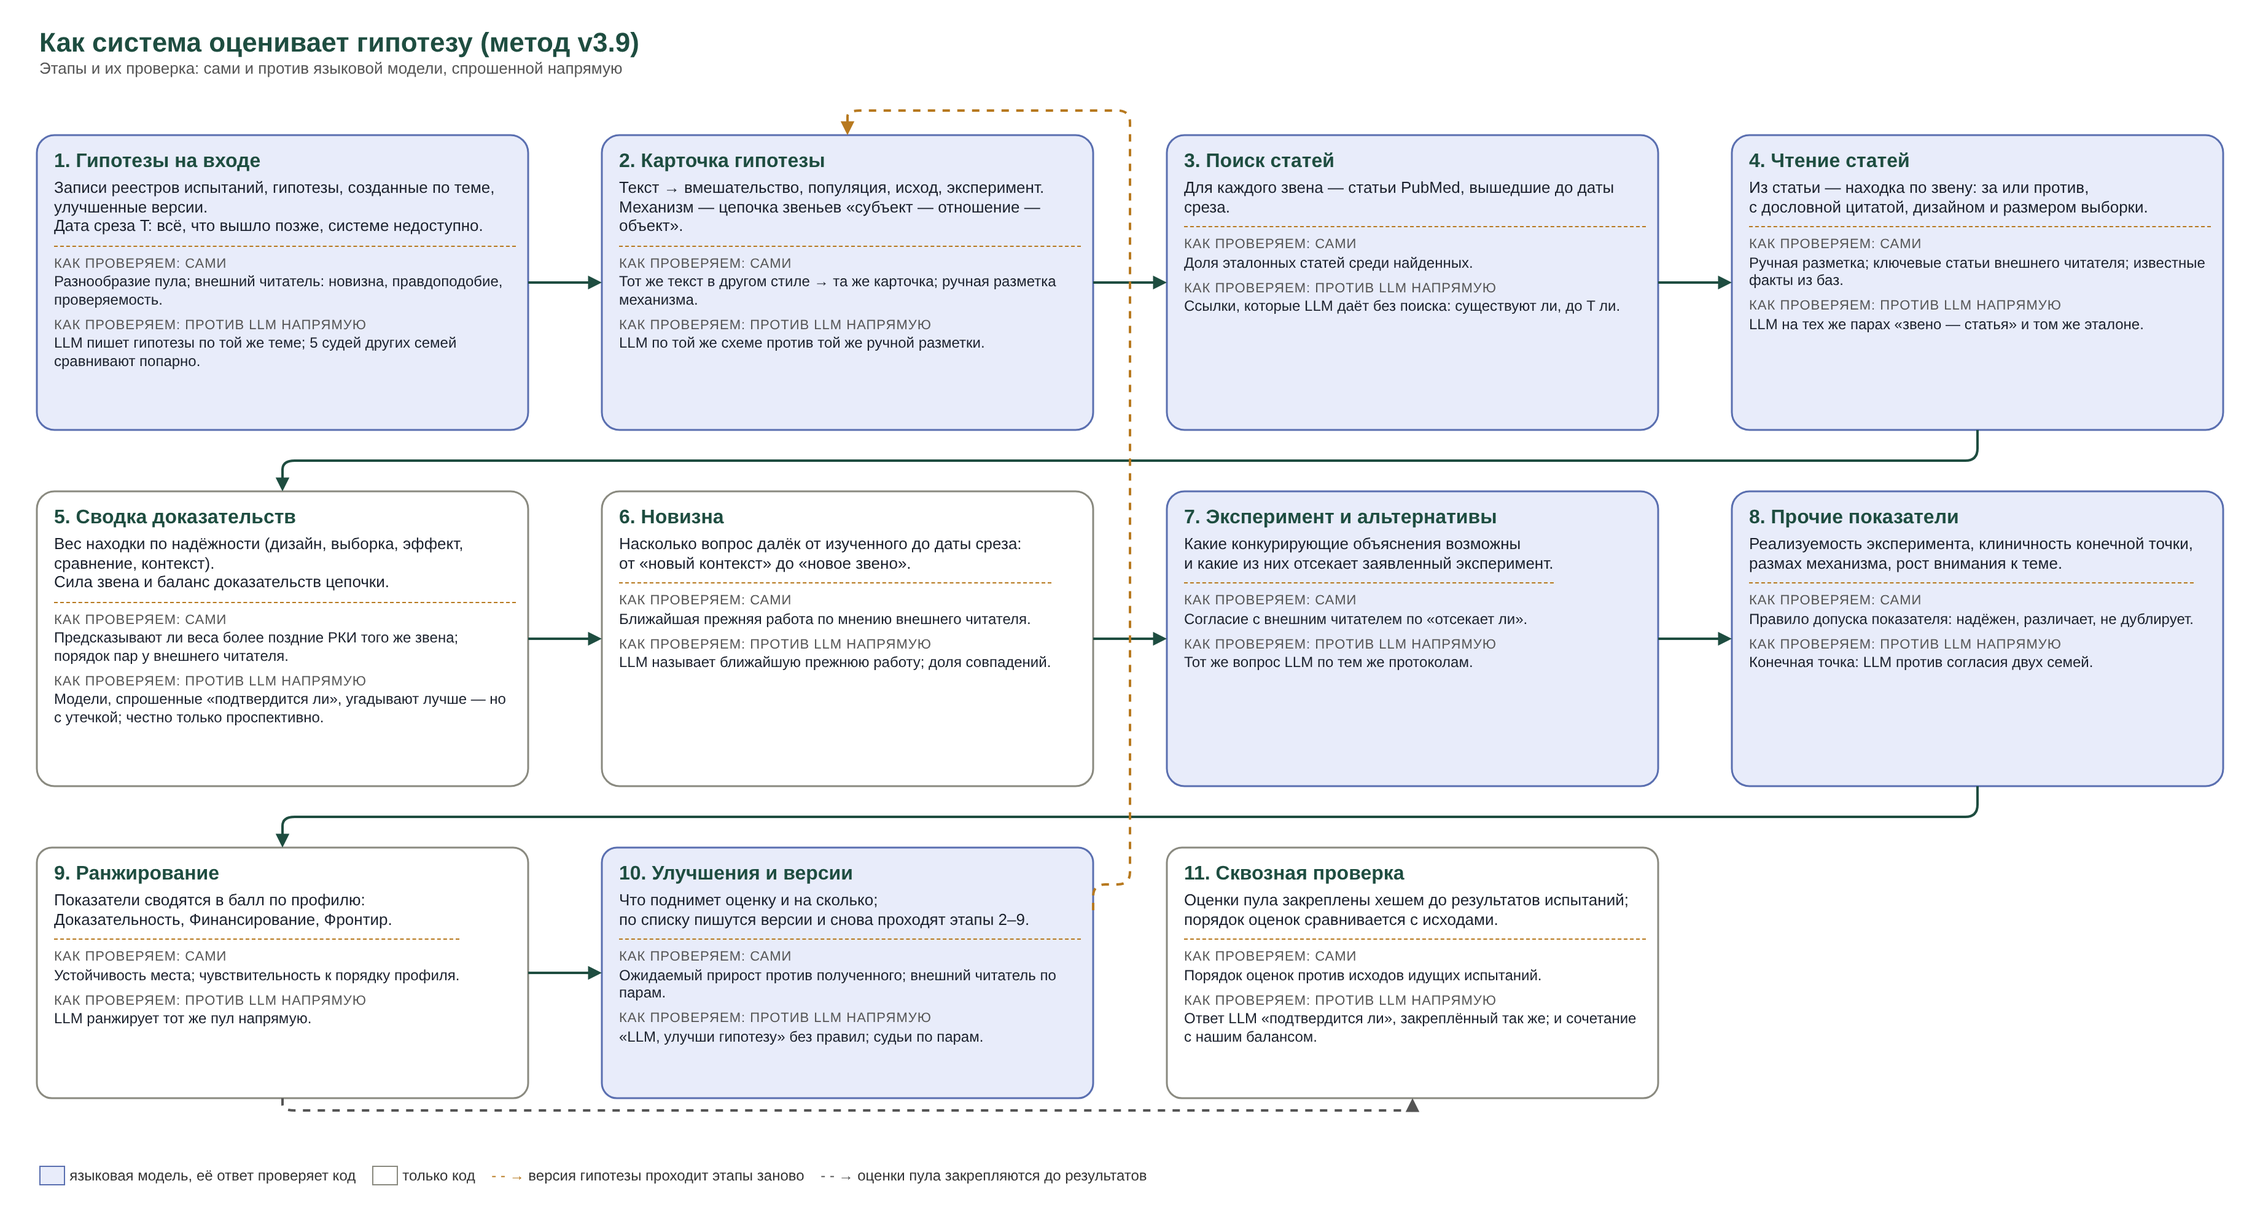
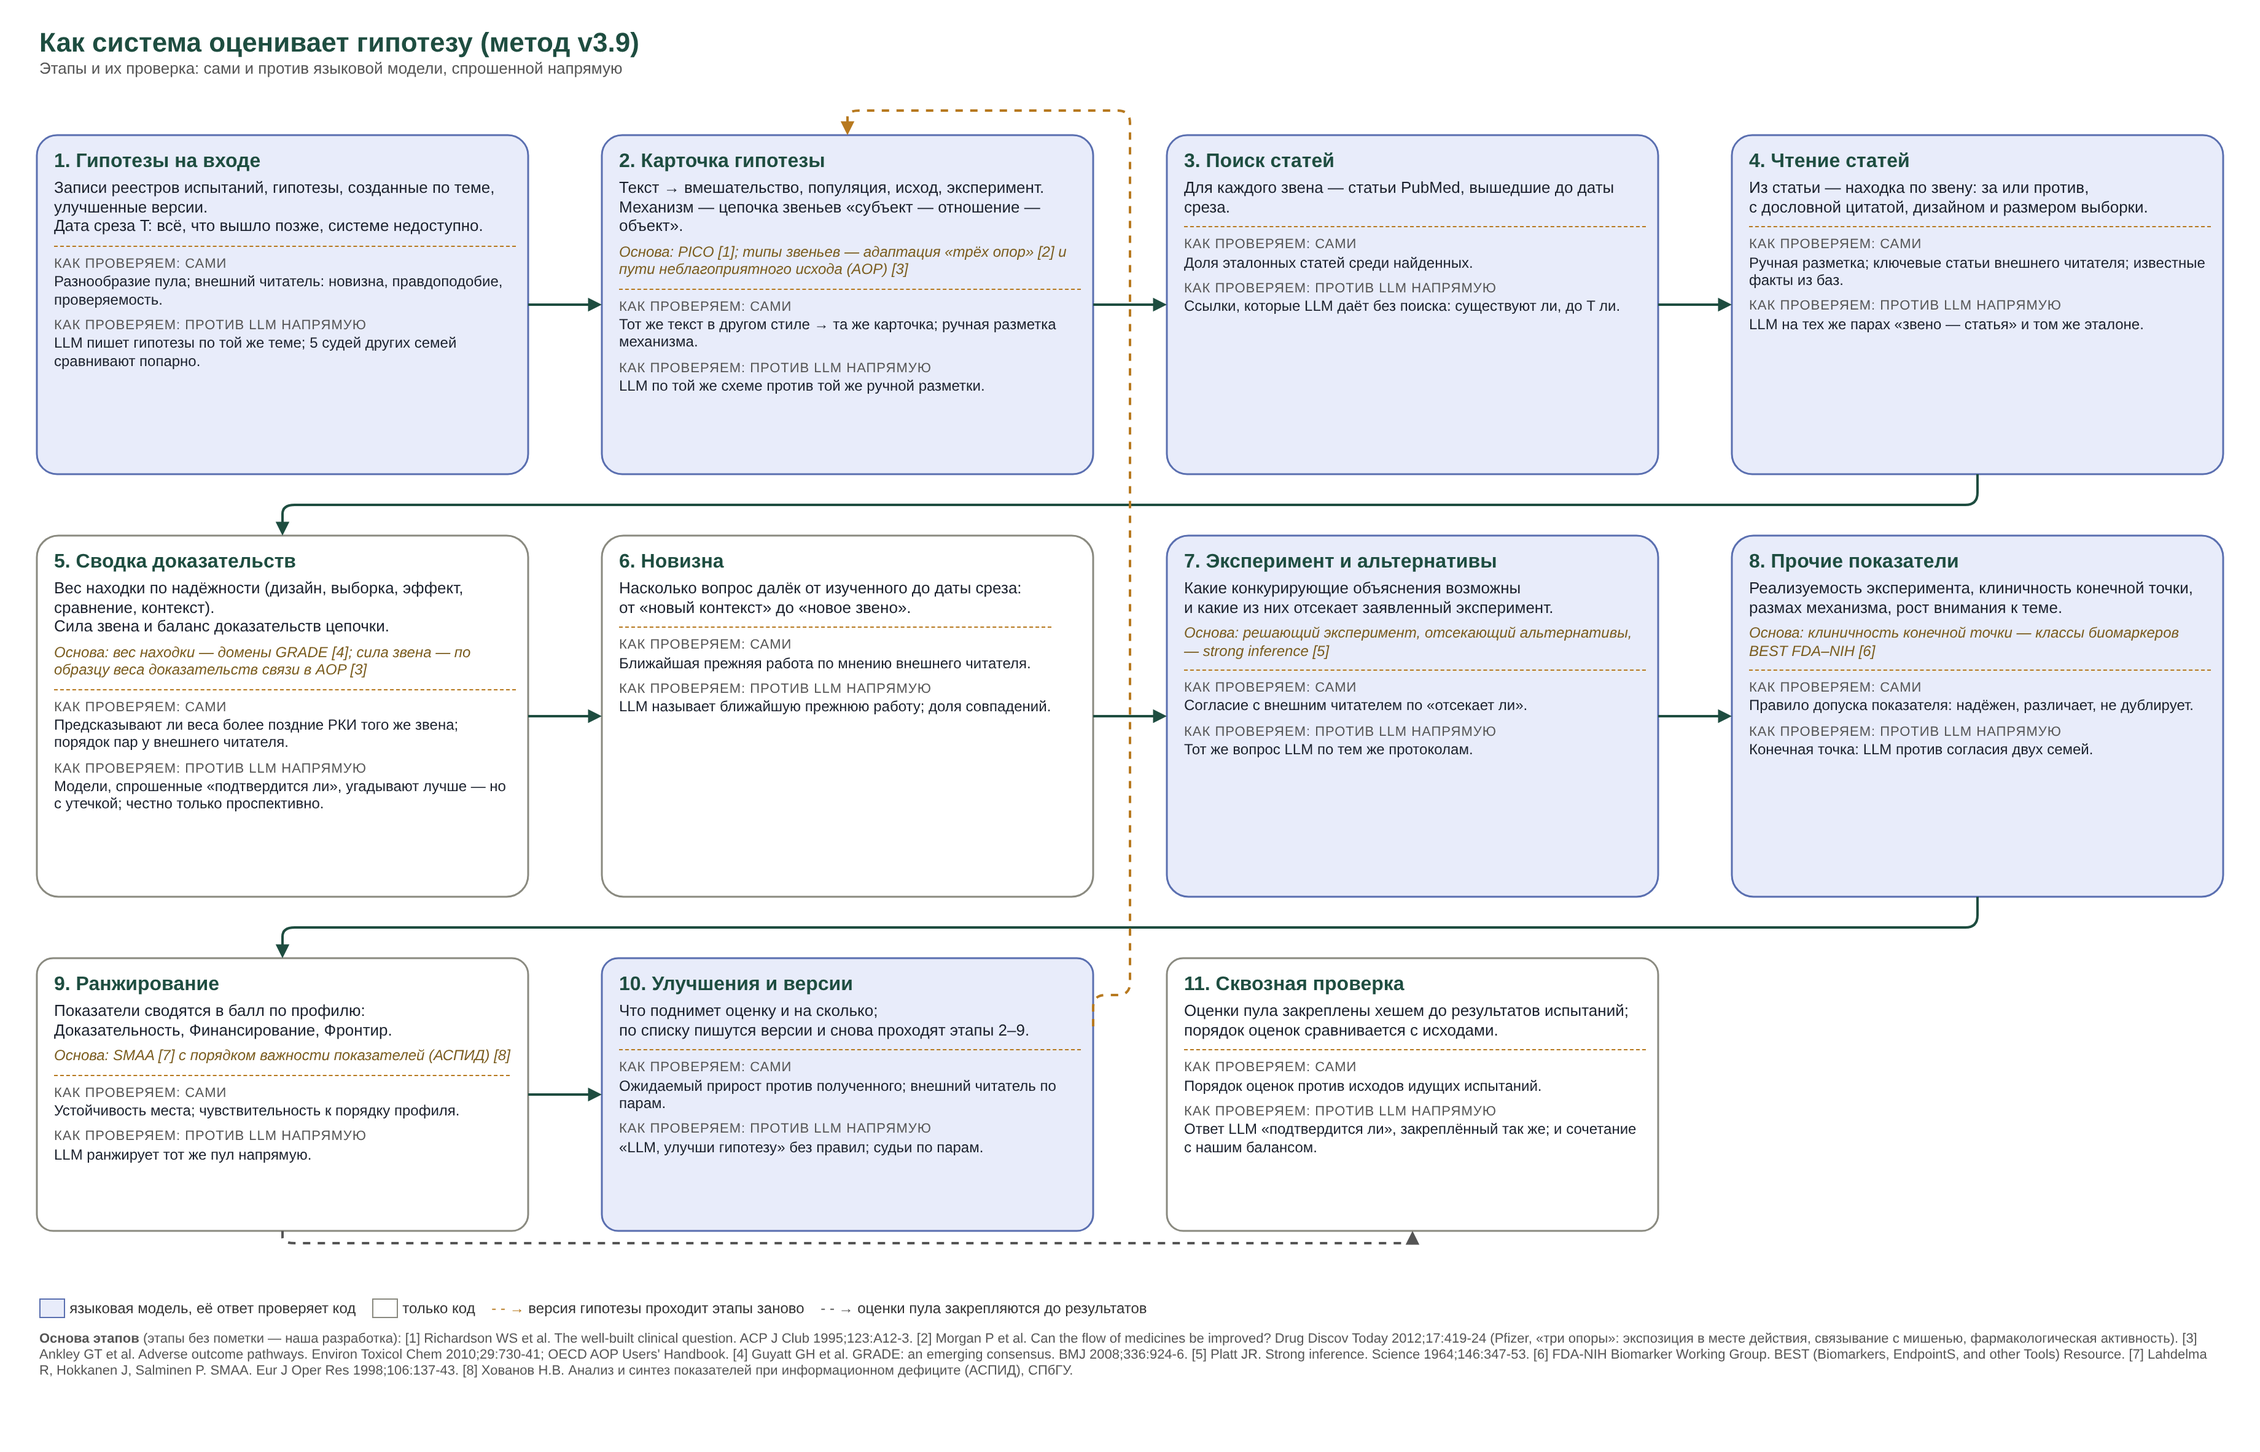
Schemes: each stage names the accepted scheme it adapts (PICO, Pfizer three pillars, AOP, GRADE, strong inference, BEST, SMAA, ASPID) with checked references; manual section 3: where the link types come from
Claude-Session: https://claude.ai/code/session_015QaY8wcM8f6FoFe6WxnTtU

diff --git a/docs/system/build_flow.py b/docs/system/build_flow.py
@@ -23,7 +23,7 @@ STAGES = [
          own=["Разнообразие пула; внешний читатель: новизна, правдоподобие, проверяемость."],
          base_llm=["LLM пишет гипотезы по той же теме; 5 судей других семей сравнивают попарно."],
          why=["У гипотез из реестров есть дата и будущий исход: отбор проверяется без утечки."]),
-    dict(name="2. Карточка гипотезы", kind="llm",
+    dict(name="2. Карточка гипотезы", basis="PICO [1]; типы звеньев — адаптация «трёх опор» [2] и пути неблагоприятного исхода (AOP) [3]", kind="llm",
          base=["Текст → вмешательство, популяция, исход, эксперимент.",
                "Механизм — цепочка звеньев «субъект — отношение — объект»."],
          llm=["Разбирает текст по фиксированной схеме и закрытому словарю отношений."],
@@ -46,7 +46,7 @@ STAGES = [
          own=["Ручная разметка; ключевые статьи внешнего читателя; известные факты из баз."],
          base_llm=["LLM на тех же парах «звено — статья» и том же эталоне."],
          why=["Цитата делает каждую оценку проверяемой и не даёт модели подставить память."]),
-    dict(name="5. Сводка доказательств", kind="code",
+    dict(name="5. Сводка доказательств", basis="вес находки — домены GRADE [4]; сила звена — по образцу веса доказательств связи в AOP [3]", kind="code",
          base=["Вес находки по надёжности (дизайн, выборка, эффект, сравнение, контекст).",
                "Сила звена и баланс доказательств цепочки."],
          code=["Вес по доменам GRADE; сила звена из суммы «за» и «против»; баланс — среднее по звеньям с данными."],
@@ -60,7 +60,7 @@ STAGES = [
          own=["Ближайшая прежняя работа по мнению внешнего читателя."],
          base_llm=["LLM называет ближайшую прежнюю работу; доля совпадений."],
          why=["Суждение модели о новизне ненадёжно; отсутствие данных — не новизна."]),
-    dict(name="7. Эксперимент и альтернативы", kind="llm",
+    dict(name="7. Эксперимент и альтернативы", basis="решающий эксперимент, отсекающий альтернативы, — strong inference [5]", kind="llm",
          base=["Какие конкурирующие объяснения возможны",
                "и какие из них отсекает заявленный эксперимент."],
          llm=["Называет альтернативы; по тексту протокола решает, отсекает ли их эксперимент."],
@@ -68,7 +68,7 @@ STAGES = [
          own=["Согласие с внешним читателем по «отсекает ли»."],
          base_llm=["Тот же вопрос LLM по тем же протоколам."],
          why=["Придуманная альтернатива без опоры ничего не добавляет."]),
-    dict(name="8. Прочие показатели", kind="llm",
+    dict(name="8. Прочие показатели", basis="клиничность конечной точки — классы биомаркеров BEST FDA–NIH [6]", kind="llm",
          base=["Реализуемость эксперимента, клиничность конечной точки,",
                "размах механизма, рост внимания к теме."],
          llm=["Относит конечную точку к уровню; две семьи моделей, считается только совпадение."],
@@ -76,7 +76,7 @@ STAGES = [
          own=["Правило допуска показателя: надёжен, различает, не дублирует."],
          base_llm=["Конечная точка: LLM против согласия двух семей."],
          why=["Профилю «Финансирование» нужны цена и готовность."]),
-    dict(name="9. Ранжирование", kind="code",
+    dict(name="9. Ранжирование", basis="SMAA [7] с порядком важности показателей (АСПИД) [8]", kind="code",
          base=["Показатели сводятся в балл по профилю:",
                "Доказательность, Финансирование, Фронтир."],
          code=["Профиль задаёт только порядок важности; АСПИД разыгрывает веса и даёт балл и «в топ-5»."],
@@ -98,6 +98,18 @@ STAGES = [
          own=["Порядок оценок против исходов идущих испытаний."],
          base_llm=["Ответ LLM «подтвердится ли», закреплённый так же; и сочетание с нашим балансом."],
          why=["Единственная проверка без утечки."]),
+]
+
+# checked 2026-11-11 (PubMed and publisher records; ASPID: the book's details to be confirmed in a library catalogue)
+REFS = [
+    "Richardson WS et al. The well-built clinical question. ACP J Club 1995;123:A12-3.",
+    "Morgan P et al. Can the flow of medicines be improved? Drug Discov Today 2012;17:419-24 (Pfizer, «три опоры»: экспозиция в месте действия, связывание с мишенью, фармакологическая активность).",
+    "Ankley GT et al. Adverse outcome pathways. Environ Toxicol Chem 2010;29:730-41; OECD AOP Users' Handbook.",
+    "Guyatt GH et al. GRADE: an emerging consensus. BMJ 2008;336:924-6.",
+    "Platt JR. Strong inference. Science 1964;146:347-53.",
+    "FDA-NIH Biomarker Working Group. BEST (Biomarkers, EndpointS, and other Tools) Resource.",
+    "Lahdelma R, Hokkanen J, Salminen P. SMAA. Eur J Oper Res 1998;106:137-43.",
+    "Хованов Н.В. Анализ и синтез показателей при информационном дефиците (АСПИД), СПбГУ.",
 ]
 
 VARIANTS = {"base": [], "impl": ["impl"], "check": ["check"], "full": ["impl", "check", "why"]}
@@ -135,6 +147,9 @@ def stage_html(s: dict, layers: list[str]) -> tuple[str, int]:
     html = f"<div style='font-size:16px;color:#1E4D40'><b>{escape(s['name'])}</b></div>" \
            f"<div style='margin-top:4px'>{'<br/>'.join(escape(t) for t in s['base'])}</div>"
     n = 2 + sum(nlines(t, BW) for t in s["base"])
+    if s.get("basis"):                     # the accepted scheme a stage adapts (user 2026-11-11: say whose idea we adapt)
+        html += f"<div style='margin-top:6px;font-size:12px;color:#7A5C1E'><i>Основа: {escape(s['basis'])}</i></div>"
+        n += nlines(s["basis"], BW, 12) + 1
     if "impl" in layers:
         if s["kind"] == "llm":
             for t, items in (("LLM", s["llm"]), ("Код", s["code"])):
@@ -195,7 +210,12 @@ def build(layers: list[str]) -> str:
               "<span style='color:#B7791F'>- - →</span> версия гипотезы проходит этапы заново &nbsp;&nbsp; "
               "<span style='color:#555'>- - →</span> оценки пула закрепляются до результатов")
     out.append(cell("legend", legend, X0, y, total_w, 26, "text;html=1;fontSize=12;align=left;fontColor=#333;fillColor=none;strokeColor=none;"))
-    page_h = y + 50
+    y += 30
+    refs = "<b>Основа этапов</b> (этапы без пометки — наша разработка): " + " ".join(f"[{i}] {escape(r)}" for i, r in enumerate(REFS, 1))
+    rh = (nlines(" ".join(REFS), total_w, 11) + 1) * 15 + 10
+    out.append(cell("refs", refs, X0, y, total_w, rh, "text;html=1;whiteSpace=wrap;fontSize=11;align=left;verticalAlign=top;fontColor=#555;fillColor=none;strokeColor=none;"))
+    y += rh
+    page_h = y + 30
     body = "".join(out)
     W = total_w + 2 * X0
     return (f'<mxfile host="hyp-arena"><diagram name="Схема"><mxGraphModel dx="{W}" dy="{page_h}" grid="0" page="1" '

diff --git a/docs/walkthrough/H49.md b/docs/walkthrough/H49.md
@@ -88,3 +88,10 @@
 польза — объяснительная (где слабое место) и для созданных и улучшенных гипотез.
 
 **Как проверить, что этот подход лучше** — решение 2026-11-11: спецификация `specs/mechanism-chain-comparison-2026-11-11.yaml` (только исход / свободная цепочка без типов / наша типизированная; дополнение механизма знаниями не проверяем — гипотеза оценивается как написана).
+
+**Типы звеньев — на что опираемся** (проверено 2026-11-11 по PubMed): «три опоры» Pfizer (Morgan et al., Drug Discov Today
+2012;17:419-24: экспозиция в месте действия → связывание с мишенью → фармакологическая активность) и путь неблагоприятного
+исхода AOP (Ankley et al., Environ Toxicol Chem 2010;29:730-41; руководство ОЭСР: молекулярное событие → ключевые события →
+исход, вес доказательств на каждую связь). Это наша адаптация, не стандартная онтология; записано в разделе 3 мануала.
+На схеме у этапов теперь строка «Основа» со ссылками (PICO, «три опоры», AOP, GRADE, strong inference, BEST, SMAA, АСПИД);
+этапы без неё — наша разработка (поиск, чтение, новизна, улучшения, сквозная проверка).

diff --git a/docs/method-v3-manual.md b/docs/method-v3-manual.md
@@ -81,7 +81,13 @@ A model (the normaliser) turns the text into a card:
 - **Claims** with roles, and for the mechanism a **link** type: `delivery` (the intervention is given and reaches the tissue),
   `engagement` (it acts on its target), `pathway` (the target changes a pathway), `effect` (an intermediate effect),
   `outcome` (the clinical or functional outcome). If the text argues a mechanism, the chain must be written; a missing link
-  is a flag ("build mechanism"), not an error.
+  is a flag ("build mechanism"), not an error. The link types are our adaptation of accepted schemes, not a standard
+  ontology: delivery, engagement and pathway / effect follow Pfizer's "three pillars" of Phase II survival (exposure at
+  the site of action, target binding, functional pharmacological activity; Morgan et al., Drug Discov Today 2012;17:419-24),
+  and the chain of steps with a strength per step is built like an adverse outcome pathway (molecular initiating event,
+  key events, adverse outcome, weight of evidence per key-event relationship; Ankley et al., Environ Toxicol Chem
+  2010;29:730-41; OECD AOP Users' Handbook). For an intervention that is not a compound, delivery means it was carried out
+  (adherence). Whether this decomposition is better than others is tested in `specs/mechanism-chain-comparison-2026-11-11.yaml`.
 - **Hallmarks of ageing** on engagement, pathway and effect links when the link concerns one.
 - **Population** (for registries taken from the registry fields).
 - **The stated experiment**: design, control, planned n, primary outcome.
